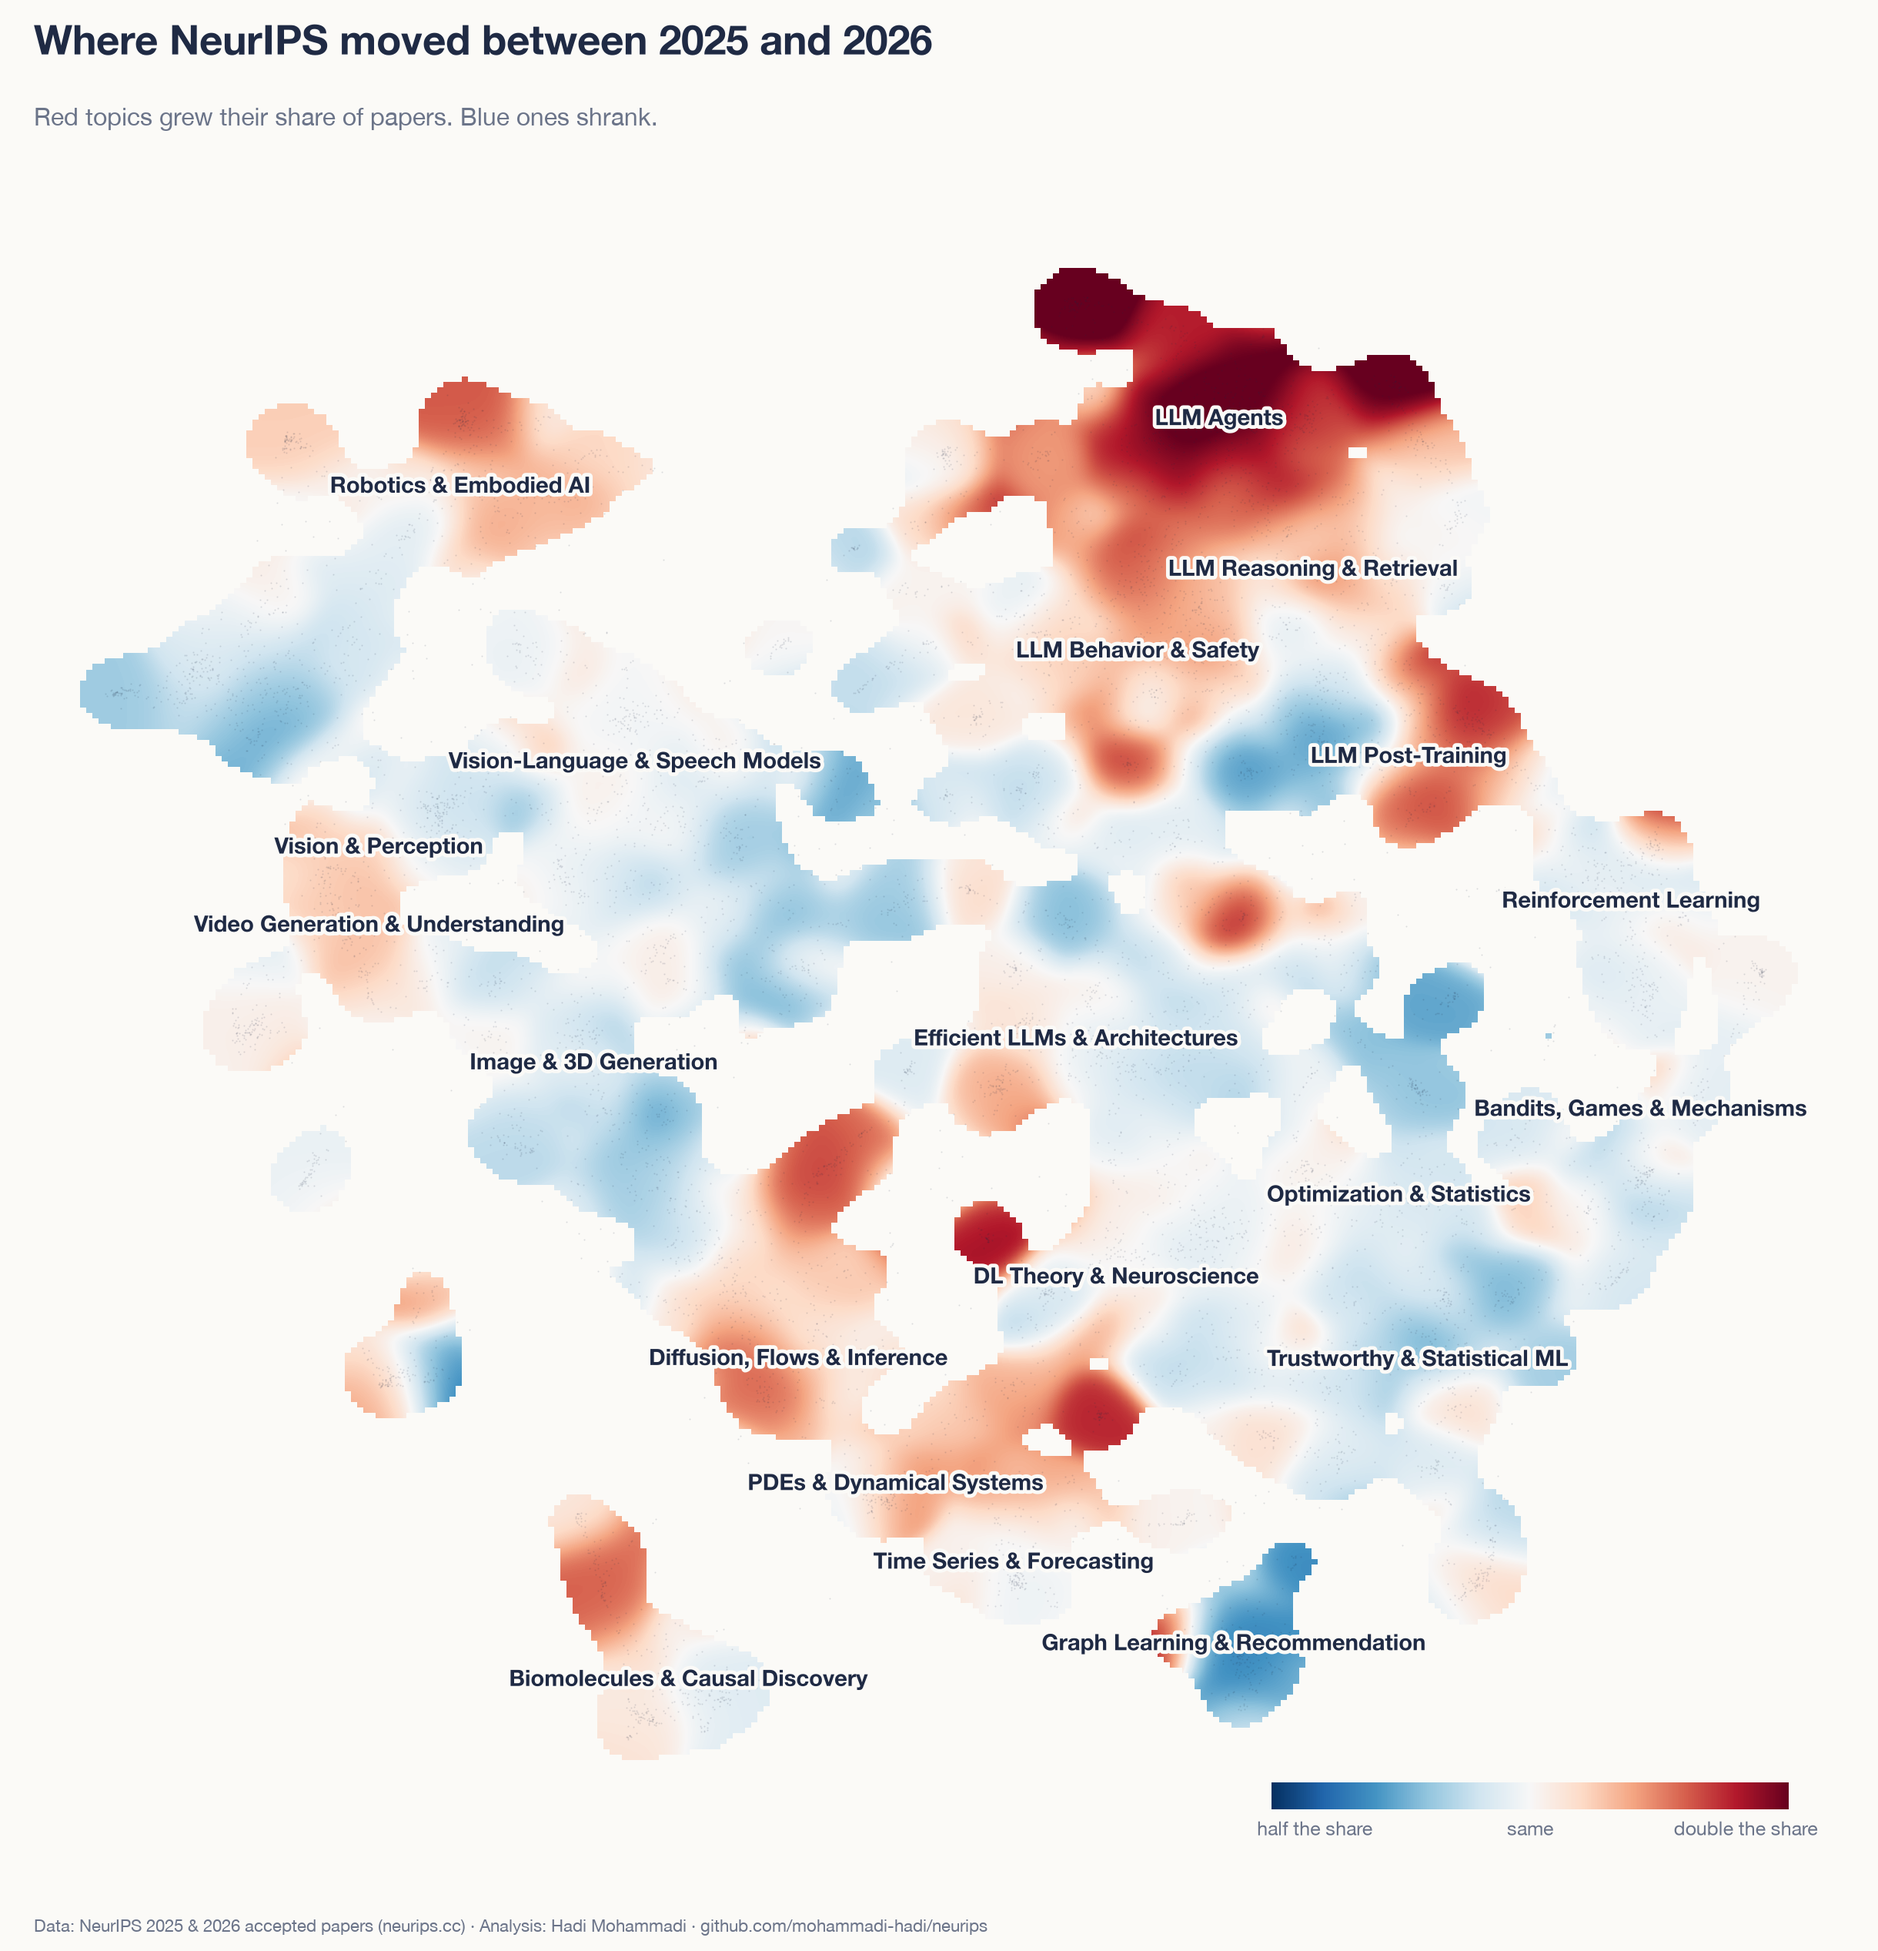
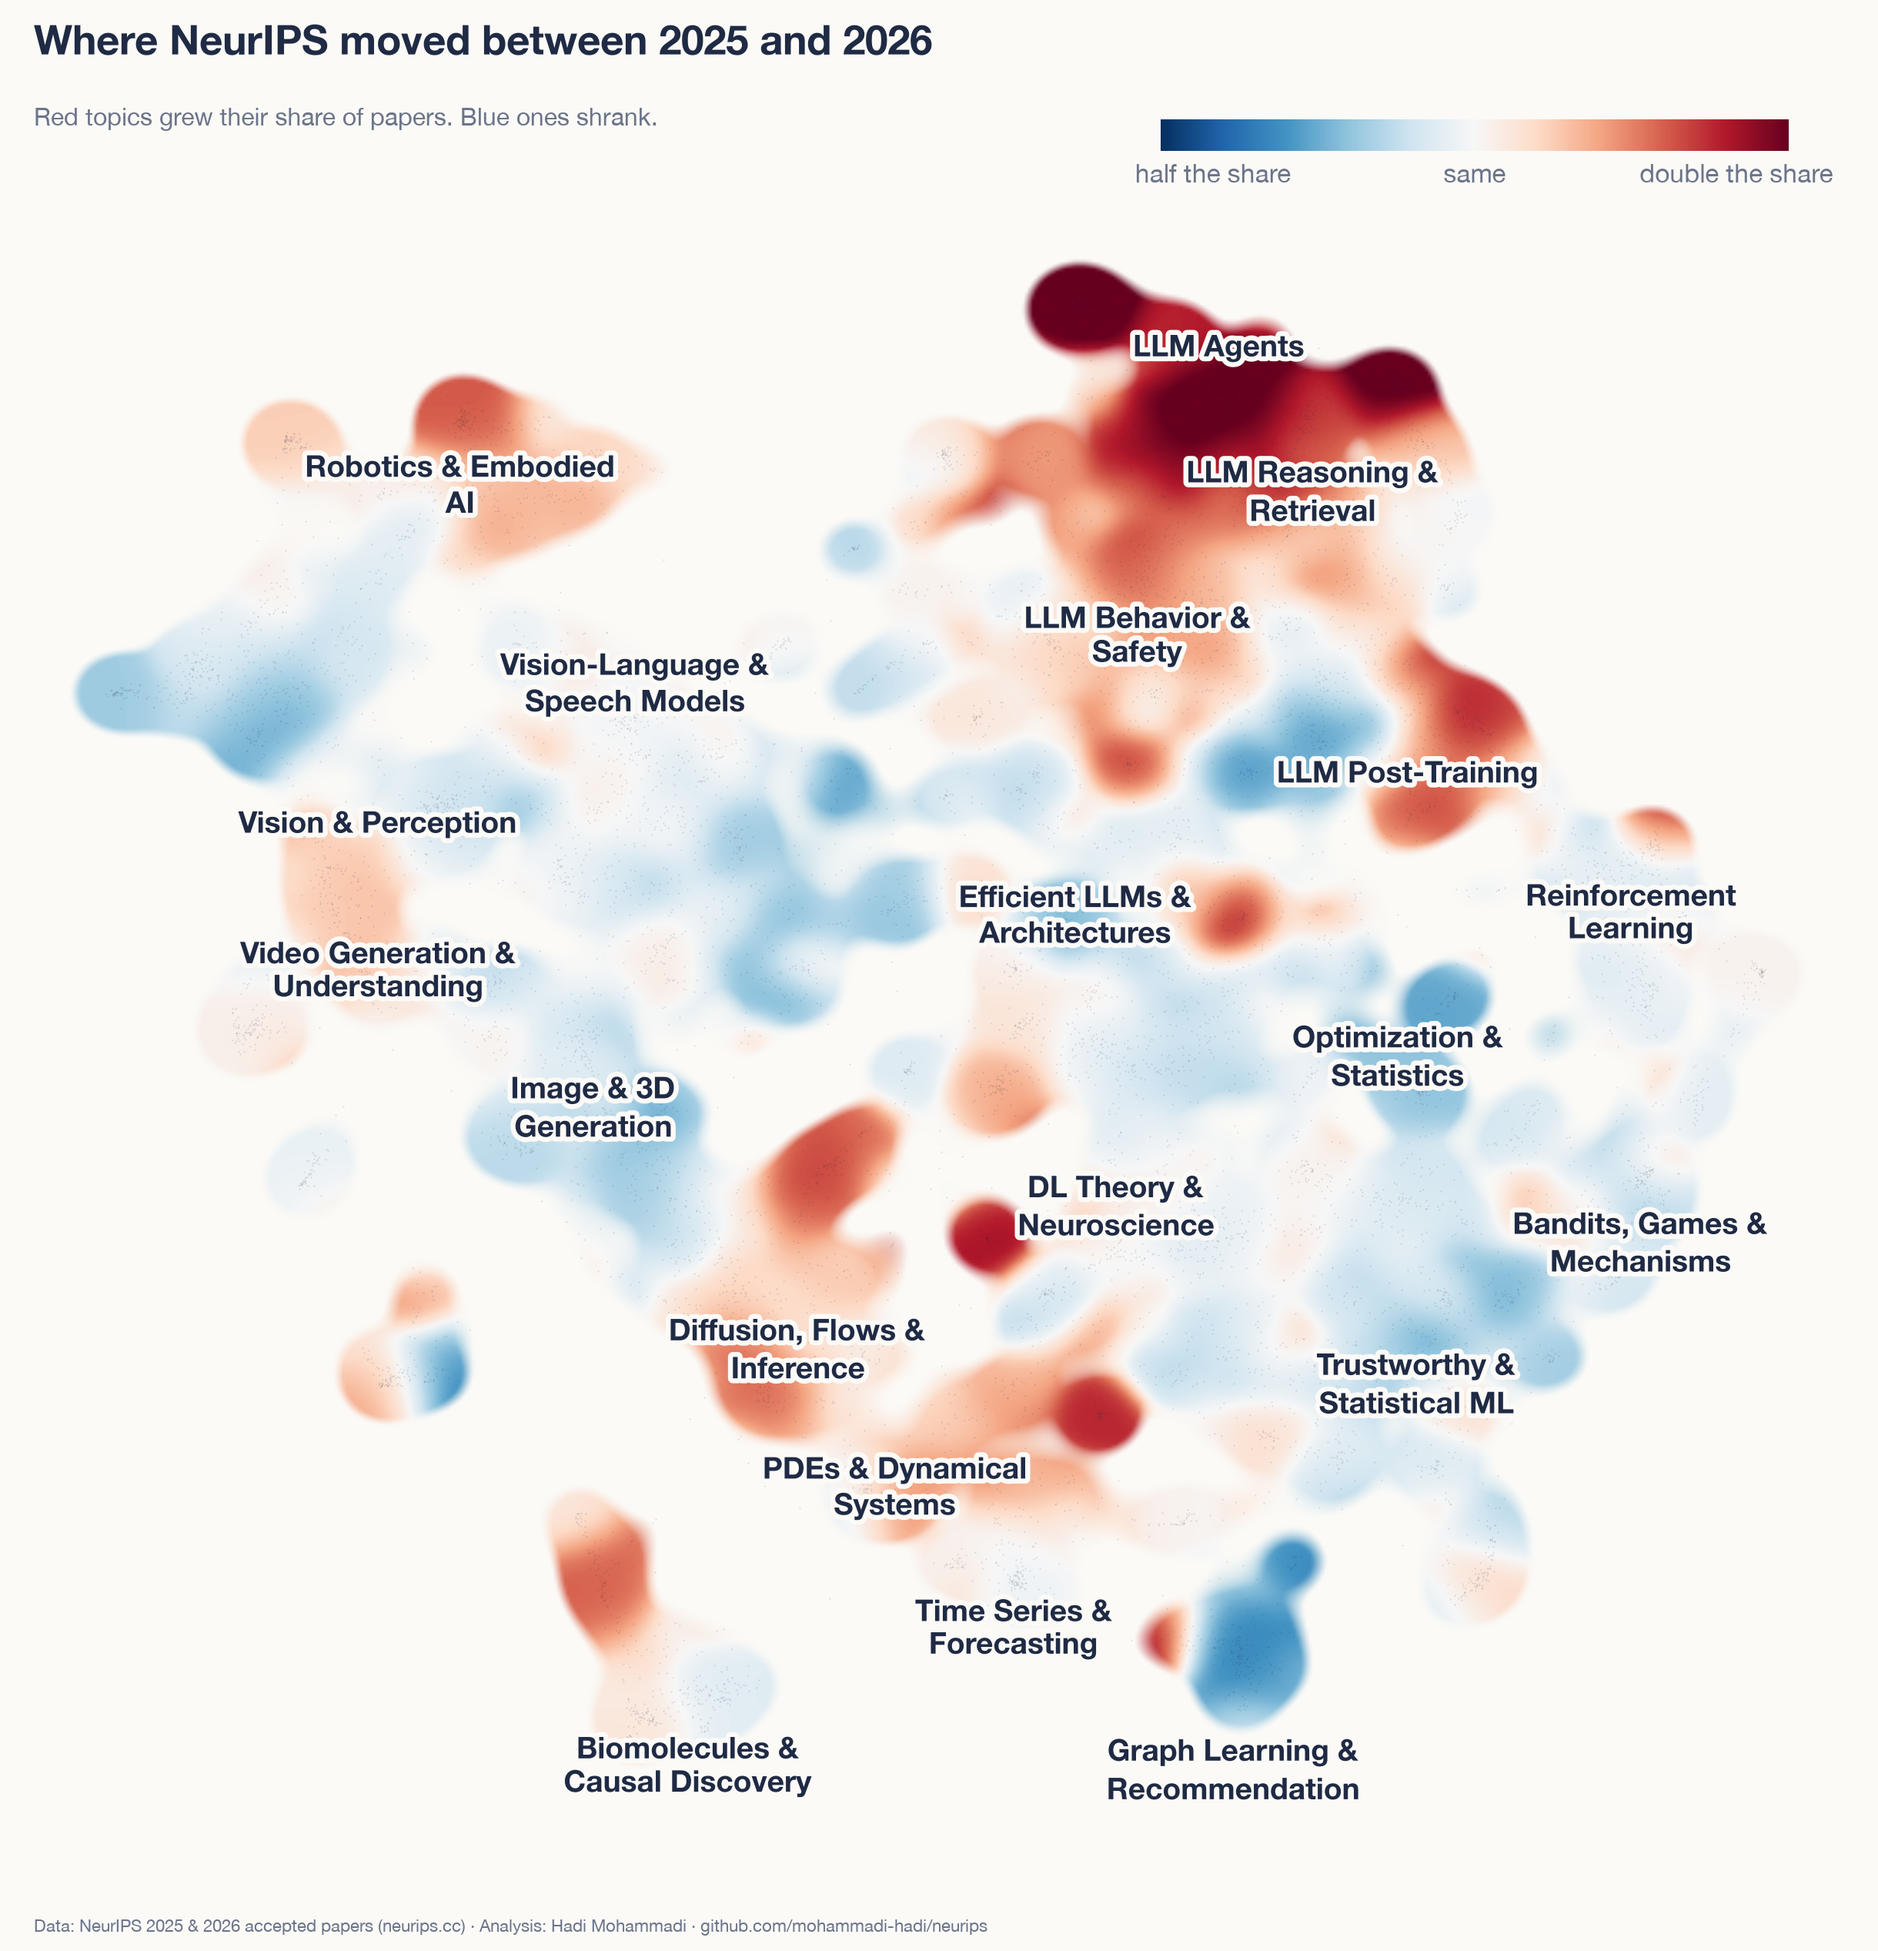
Redraw the field figure with whole, larger labels

diff --git a/src/10_story_figures.py b/src/10_story_figures.py
@@ -12,7 +12,7 @@ Social cards (outputs/carousel/, 1080x1350): drawn separately with large type, n
 Subtopics are fitted on 2026 papers; each 2025 paper is assigned to its nearest subtopic in the
 embedding space. "Factor" always means the plain ratio of shares, share_2026 / share_2025.
 """
-import json
+import json, textwrap
 from pathlib import Path
 import numpy as np
 import pandas as pd
@@ -79,6 +79,15 @@ field = np.ma.masked_where(cnt < 0.08, wsum / np.maximum(cnt, 1e-9))
 med = d26.groupby("broad")[["x", "y"]].median()
 
 
+def soft_field(x, y, w, ext):
+    """The same colour field on a finer grid, fading out at the edges instead of stepping in square pixels."""
+    rng, bins, sig = [ext[:2], ext[2:]], 600, 7
+    cnt = gaussian_filter(np.histogram2d(x, y, bins=bins, range=rng)[0], sig)
+    wsum = gaussian_filter(np.histogram2d(x, y, bins=bins, range=rng, weights=w)[0], sig)
+    rgba = plt.cm.RdBu_r(plt.Normalize(-1.2, 1.2)(wsum / np.maximum(cnt, 1e-9)))
+    rgba[..., 3] = np.clip((cnt - 0.012) / 0.016, 0, 1)
+    return rgba.transpose(1, 0, 2)
+
 def spread_labels(pos, dy=0.45, dx=2.2):
     pos = pos.copy()
     for _ in range(300):
@@ -96,13 +105,19 @@ def spread_labels(pos, dy=0.45, dx=2.2):
     return pos
 
 
-def draw_field(ax, keep=None, fs=10.5, scatter=True):
-    ax.imshow(field.T, origin="lower", extent=ext, cmap="RdBu_r", vmin=-1.2, vmax=1.2, interpolation="bilinear")
+def draw_field(ax, keep=None, fs=10.5, scatter=True, soft=None, wrap=None):
+    if soft is not None:
+        ax.imshow(soft, origin="lower", extent=ext, interpolation="bilinear")
+    else:
+        ax.imshow(field.T, origin="lower", extent=ext, cmap="RdBu_r", vmin=-1.2, vmax=1.2, interpolation="bilinear")
     if scatter:
         ax.scatter(d26.x, d26.y, s=0.5, c=INK, alpha=0.15, linewidths=0)
     pos = med if keep is None else med.loc[[b for b in med.index if broad_name[b] in keep]]
-    for b, r in spread_labels(pos, dx=2.2 * fs / 10.5, dy=0.45 * fs / 10.5).iterrows():
-        outline(ax.text(r.x, r.y, broad_name[b], ha="center", va="center", fontsize=fs, color=INK,
+    name = (lambda b: textwrap.fill(broad_name[b], wrap)) if wrap else (lambda b: broad_name[b])
+    lines = max(name(b).count("\n") + 1 for b in pos.index)
+    # two-line labels need a bit more room, not twice as much: their lines are shorter
+    for b, r in spread_labels(pos, dx=2.2 * fs / 10.5 * (0.8 if wrap else 1), dy=0.45 * fs / 10.5 * (1 + 0.35 * (lines - 1))).iterrows():
+        outline(ax.text(r.x, r.y, name(b), ha="center", va="center", fontsize=fs, color=INK, linespacing=1.0,
                         fontweight="bold"), fs / 3)
     ax.set_xlim(ext[:2]); ax.set_ylim(ext[2:]); ax.axis("off")
 
@@ -115,8 +130,9 @@ def field_colorbar(fig, box, fs=9):
 
 
 fig = plt.figure(figsize=(12, 12.6))
-draw_field(fig.add_axes([0.0, 0.03, 1.0, 0.9]))
-field_colorbar(fig, [0.68, 0.07, 0.28, 0.014])
+# bigger labels than the cards: the story shows this figure at about a third of its size
+draw_field(fig.add_axes([0.0, 0.03, 1.0, 0.9]), fs=14, soft=soft_field(d26.x, d26.y, d26.fine.map(grow), ext), wrap=20)
+field_colorbar(fig, [0.62, 0.925, 0.34, 0.016], fs=12)  # top right: the bottom right holds a label
 frame(fig, "Where NeurIPS moved between 2025 and 2026",
       "Red topics grew their share of papers. Blue ones shrank.")
 fig.savefig(FIG / "field_moved.png"); plt.close(fig)
